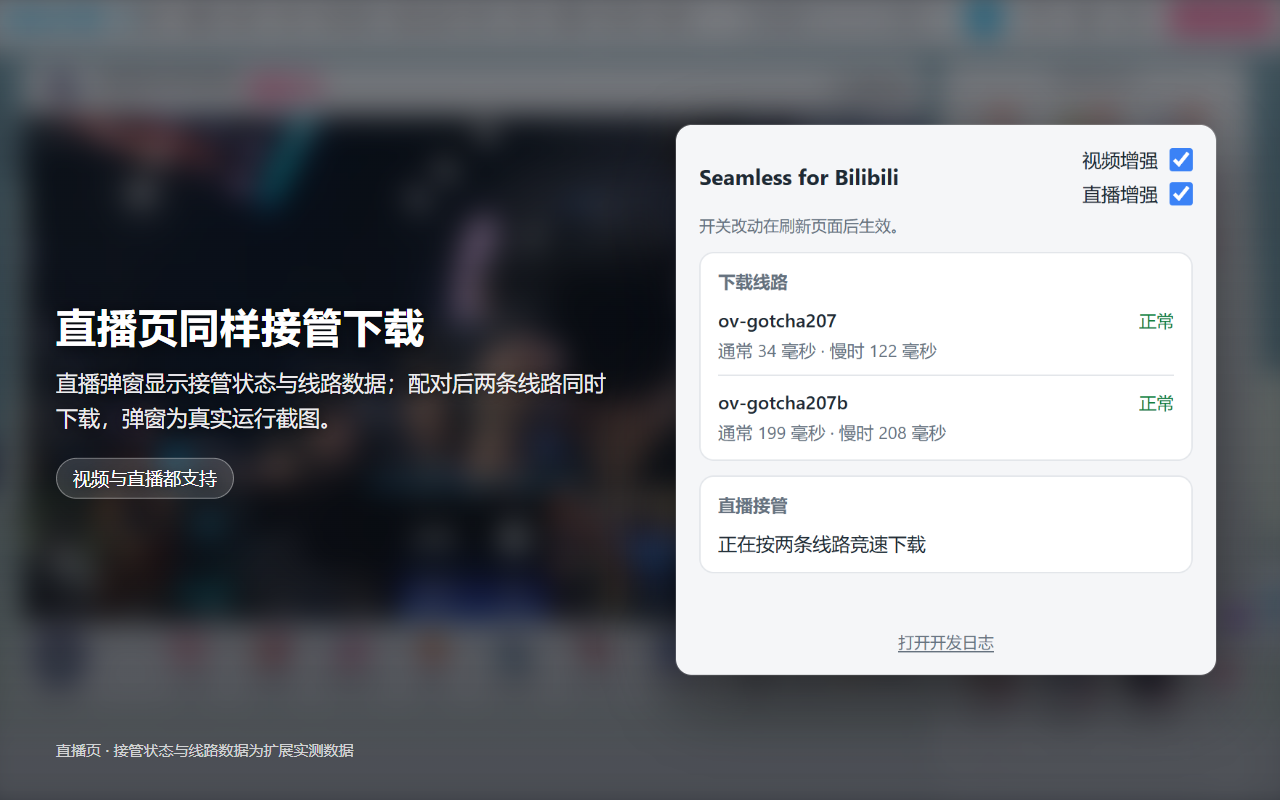
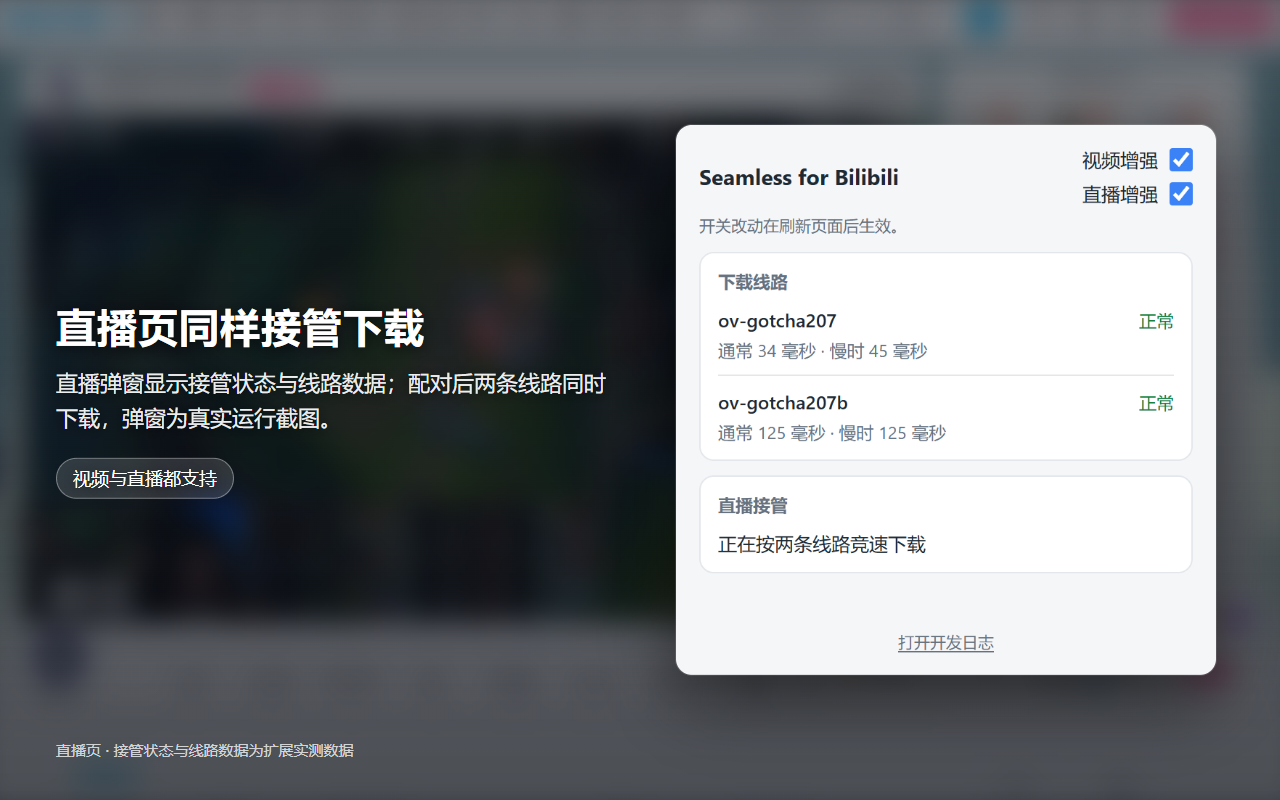
Recapture the store images with the log link visible
Third capture (Windows, system Chrome 154.0.8037.57, temp profile, buildId
src-b6d327654134c77e866236ab, commit efd81d7): the video popup close-up and
screenshot-01 now show 打开开发日志 under the 下载线路 card - the browser
window at the screen top lets the popup window fit its whole 435 CSS px
document (viewport 435 = document 435, recorded in report.json), where the
second capture's clamped window (396) left the link strip unpainted. The live
close-up keeps its link (viewport 379 = document 379); both carry this run's
real readouts: video BV1esa36qEbN at 123 s buffered against the 120 s target
with both mirrors 正常 and connection times, live room 6 on HLS with
gotcha207/gotcha207b racing (正在按两条线路竞速下载), no console errors, and
the four written popup PNGs each passed the new link-ink assertion (1612/1623
pixels, the live popup's own signature). The tile and diagram re-render
byte-identical; the marquee carries the corrected traffic sentence (FLV close
to twice, HLS about 1.3x, matching README and the diagram).

Why: the user uploads these images to the Chrome Web Store as they are; the
popup images must show what the shipped popup shows, including its log link.

diff --git a/store/images/README.md b/store/images/README.md
@@ -26,18 +26,24 @@
    捕获明暗两态（暗色经 `prefers-color-scheme` 模拟）与弹窗背后的页面，写出上表输入
    `video-popup-light.png`、`live-popup-light.png`、`video-page.png`、`live-page.png` 与 `report.json`
    （含 commit、buildId、Chrome 版本、视频与房间号、直播格式 FLV/HLS、明暗两态弹窗读数）。
-   读数迟迟不出现就报错退出，绝不静默截一张空弹窗；测试浏览器只按 PID 结束（其命令行含本次临时 profile 路径）。
+   读数迟迟不出现就报错退出，绝不静默截一张空弹窗；弹窗截图前断言弹窗视口装下整个文档，写出后再解码 PNG
+   断言「打开开发日志」区域有墨迹，任一不满足即报错退出；测试浏览器只按 PID 结束（其命令行含本次临时 profile 路径）。
 2. `node store/images/src/compose.mjs` → 弹窗特写按原始捕获的完整尺寸原样导出（不做裁切），并渲染上表全部 PNG。
    每张图渲染前自检：弹窗、说明语和文字块不出画，说明语不压弹窗，标题只在词边界换行，背景页面截图必须加载成功；任一不满足即报错退出。
 3. 文案修改直接改 `src/*.html`（截图说明语在 HTML 里；直播说明语按 `report.json` 的实际接管状态插值到渲染页面，源文件不改）。
 
-## 捕获来源（2026-09-28 第二次）
+## 捕获来源（2026-09-28 第三次）
 
-- commit `1d18769625dbb8bd39bb1a1d66e1bd687b434613`，buildId `src-b6d327654134c77e866236ab`（与 `report.json`
+- commit `efd81d783a3d950f098362c283226e0959c87552`，buildId `src-b6d327654134c77e866236ab`（与 `report.json`
   的 `provenance` 一致，随捕获自动写入）；Chrome 154.0.8037.57（系统 Chrome，Windows），临时专用 profile，
-  未登录，`--force-device-scale-factor=2`。
-- 视频：BV1esa36qEbN（播放量 < 10 的冷门视频），缓冲 123 秒 / 目标 120 秒已生效，两条线路卡均带连接时间；
+  未登录，`--force-device-scale-factor=2`，浏览器窗口顶到屏幕上沿（`--window-position=0,0`）。
+- 视频：BV1esa36qEbN（播放量 < 10 的冷门视频），缓冲 123 秒 / 目标 120 秒已生效，两条线路卡均正常且带连接时间；
   直播：房间 6，播放器走 HLS（fMP4 分片，gotcha207 与 gotcha207b 两路竞速，`report.json` 的 `liveFormat`
   为 `HLS`），弹窗显示「正在按两条线路竞速下载」。
 - 捕获即验证：弹窗读数（双开关、缓冲条、120 秒申请状态、线路健康词与连接时间、直播接管行）来自真实运行，
   深色模式经 `prefers-color-scheme` 模拟逐像素核对（健康词整词着色，无半色缺陷）。
+- 弹窗完整性的教训与自检：2× 缩放把 Chrome 感知到的屏幕减半（1920×1080 读作 960×540、可用 516），浏览器窗口
+  在 y=40 时弹窗锚点落在屏幕 y≈116，Chrome 把弹窗窗口钳到 396 CSS px 而文档高 435，日志链接（y 400.5-423）
+  落在未绘制区，第二次捕获的特写里因此是一段空白；窗口顶到 y=0 后锚点升到 y≈76，弹窗窗口装下整个文档。
+  每张弹窗截图写出的 PNG 都会解码并断言链接区域有墨迹（对照：第二次的视频弹窗该区域 0 个墨迹像素，本次
+  1612 个，与直播弹窗一致），视口与文档尺寸连同链接坐标写入 `report.json` 供复核。
